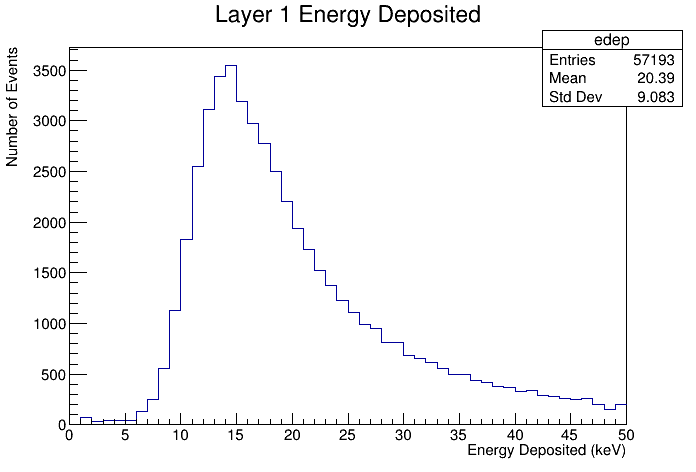
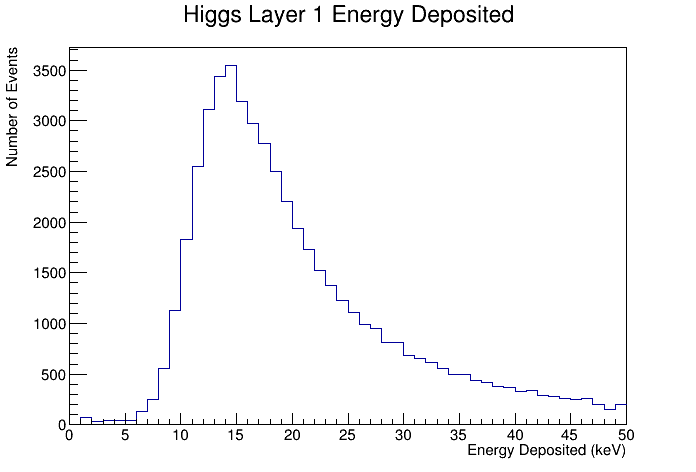
changing style of higgs plots

Changed region(s): [[0.2716, 0.0, 0.7543, 0.0593], [0.7845, 0.0593, 0.9957, 0.2373]]

diff --git a/python/higgs_hit_rate.py b/python/higgs_hit_rate.py
@@ -66,20 +66,20 @@ for i in range(1000):
             azimuthal = phi(x, y) * (180 / math.pi)
             hit_map[r][int((z // 2) * 2)][int((azimuthal // 3) * 3)][i] += 1
 
-# for layer_index in range(3):
+for layer_index in range(3):
 
-#     r = radii[layer_index]
-#     hist = ROOT.TH2F("hit map", f"Guinea Pig Layer {layer_index + 1} Module Hits", \
-#                     110, -110, 110, 120, 0, 360)
-#     hist.SetTitle(f"Layer {layer_index + 1} Hits per Bunch Crossing;z (mm);Azimuthal Angle (deg)")
+    r = radii[layer_index]
+    hist = ROOT.TH2F("hit map", f"Higgs Layer {layer_index + 1} Hits per Bunch Crossing", \
+                    110, -110, 110, 120, 0, 360)
+    hist.SetTitle(f"Higgs Layer {layer_index + 1} Hits per Bunch Crossing;z (mm);Azimuthal Angle (deg)")
 
-#     for z in range(-110, 110, 2):
-#         for azimuthal in range(0, 360, 3):
-#             hits = np.mean(hit_map[r][z][azimuthal])
-#             hist.SetBinContent(((z + 110) // 2) + 1, (azimuthal // 3) + 1, hits)
+    for z in range(-110, 110, 2):
+        for azimuthal in range(0, 360, 3):
+            hits = np.mean(hit_map[r][z][azimuthal])
+            hist.SetBinContent(((z + 110) // 2) + 1, (azimuthal // 3) + 1, hits)
 
-#     hist.SetStats(0)
-#     canvas = ROOT.TCanvas("hit map", f"Layer {layer_index + 1} Hits")
-#     hist.Draw("colz")
-#     canvas.Update()
-#     canvas.SaveAs(f"../plots/hit_rates/higgs/higgs_layer{layer_index + 1}_hit_rate.png")
+    hist.SetStats(0)
+    canvas = ROOT.TCanvas("hit map", f"Layer {layer_index + 1} Hits")
+    hist.Draw("colz")
+    canvas.Update()
+    canvas.SaveAs(f"../plots/hit_rates/higgs/higgs_layer{layer_index + 1}_hit_rate.png")

diff --git a/python/higgs_edep.py b/python/higgs_edep.py
@@ -57,12 +57,13 @@ for i in range(1000):
         hits[radius(r)].append((i,j))
 
 for layer_index in range(3):
-    hist = ROOT.TH1F("edep", f"Layer {layer_index + 1} Energy Deposited", 50, 0, 50)
+    hist = ROOT.TH1F("edep", f"Higgs Layer {layer_index + 1} Energy Deposited", 50, 0, 50)
     for event, hit in hits[radii[layer_index]]:
         edep = edep_data[event][hit] * 1000000
         hist.Fill(edep)
     hist.GetXaxis().SetTitle("Energy Deposited (keV)")
     hist.GetYaxis().SetTitle("Number of Events")
+    hist.SetStats(0)
     canvas = ROOT.TCanvas("edep", f"Layer {layer_index + 1} Energy Deposited")
     hist.Draw()
     canvas.Update()
